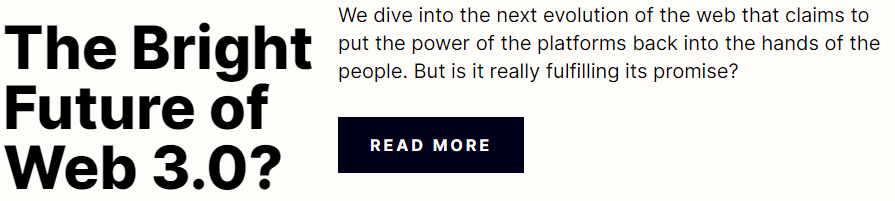
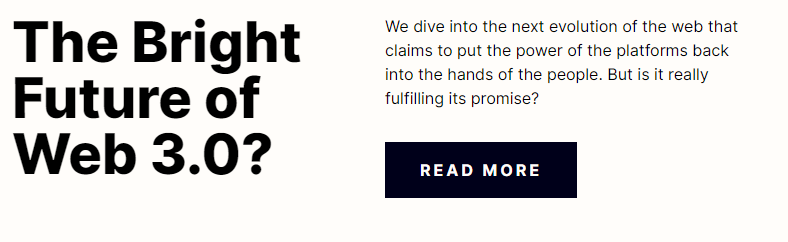
Fixed spacing on bright future section

diff --git a/src/index.css b/src/index.css
@@ -3,8 +3,7 @@
 @tailwind components;
 @tailwind utilities;
 
-
-*{
+* {
   box-sizing: border-box;
 }
 
@@ -14,7 +13,7 @@ body {
 }
 
 @media (min-width: 1025px) {
-  body{
+  body {
     margin: 2rem 8rem;
   }
 }
@@ -35,16 +34,15 @@ li {
   }
 
   ul li a:hover {
-color: hsl(35, 77%, 62%);
+    color: hsl(35, 77%, 62%);
   }
 }
 
-
-@media (min-width: 1025px){
-.mainImg{
-  height: 20rem;
-  width: 100%;
-}
+@media (min-width: 1025px) {
+  .mainImg {
+    height: 20rem;
+    width: 100%;
+  }
 }
 
 h1 {
@@ -52,6 +50,15 @@ h1 {
   font-weight: 800;
   line-height: 3rem;
   padding: 1rem 0rem;
+}
+
+@media (min-width: 1025px) {
+  h1 {
+    padding: 0rem;
+    font-size: 3.5rem;
+    max-width: 22rem;
+    line-height: 3.5rem;
+  }
 }
 
 .readMore {
@@ -62,9 +69,10 @@ h1 {
   font-weight: 700;
   letter-spacing: 3px;
   margin: 2rem 0;
+  max-width: 12rem;
 }
 
-.readMore:hover{
+.readMore:hover {
   background-color: hsl(240, 100%, 5%);
 }
 
@@ -74,12 +82,11 @@ aside {
   margin: 1rem 0;
 }
 
-@media (min-width: 1025px){
-  aside{
+@media (min-width: 1025px) {
+  aside {
     padding: 2rem;
   }
 }
-
 
 aside h2 {
   color: hsl(35, 77%, 62%);
@@ -95,7 +102,7 @@ aside h3 {
   margin-bottom: 0.5rem;
 }
 
-aside h3:hover{
+aside h3:hover {
   color: hsl(35, 77%, 62%);
 }
 
@@ -109,9 +116,9 @@ hr {
   border-color: hsl(236, 13%, 42%);
 }
 
-section article{
-max-height: 200px;
-max-width: 400px;
+section article {
+  max-height: 200px;
+  max-width: 400px;
 }
 
 article div h2 {
@@ -125,7 +132,7 @@ article div h3 {
   font-weight: 800;
 }
 
-article div h3:hover{
+article div h3:hover {
   color: hsl(5, 85%, 63%);
 }
 

diff --git a/src/components/MainArticle.jsx b/src/components/MainArticle.jsx
@@ -14,9 +14,9 @@ const MainArticle=()=> {
                     <img src="./images/image-web-3-mobile.jpg" alt="puzzle blocks" className="py-4 mainImg" />
                 </picture>
                 <div className="lg:flex lg:justify-between">
-                <h1 className="lg:text-6xl">The Bright Future of Web 3.0?</h1>
-                <div>
-                <p className="lg:text-xl">We dive into the next evolution of the web that claims to put the power of the platforms back into the hands of the
+                <h1>The Bright Future of Web 3.0?</h1>
+                <div className="lg:flex lg:flex-col lg:justify-between lg:w-1/2">
+                <p>We dive into the next evolution of the web that claims to put the power of the platforms back into the hands of the
                     people. But is it really fulfilling its promise?</p>
                 <button className="readMore">Read more</button>
                 </div>

diff --git a/src/components/Footer.jsx b/src/components/Footer.jsx
@@ -1,7 +1,7 @@
 const Footer=()=> {
     return (
         <>
-            <div className="attribution lg:col-start-6 lg:col-span-3">
+            <div className="attribution lg:col-start-6 lg:col-span-4">
                 Challenge by <a href="https://www.frontendmentor.io?ref=challenge" target="_blank" rel="noopener noreferrer">Frontend Mentor</a>.
                 Coded by <a href="https://www.frontendmentor.io/profile/Hin274">Chong Hin Yu</a>.
             </div>
